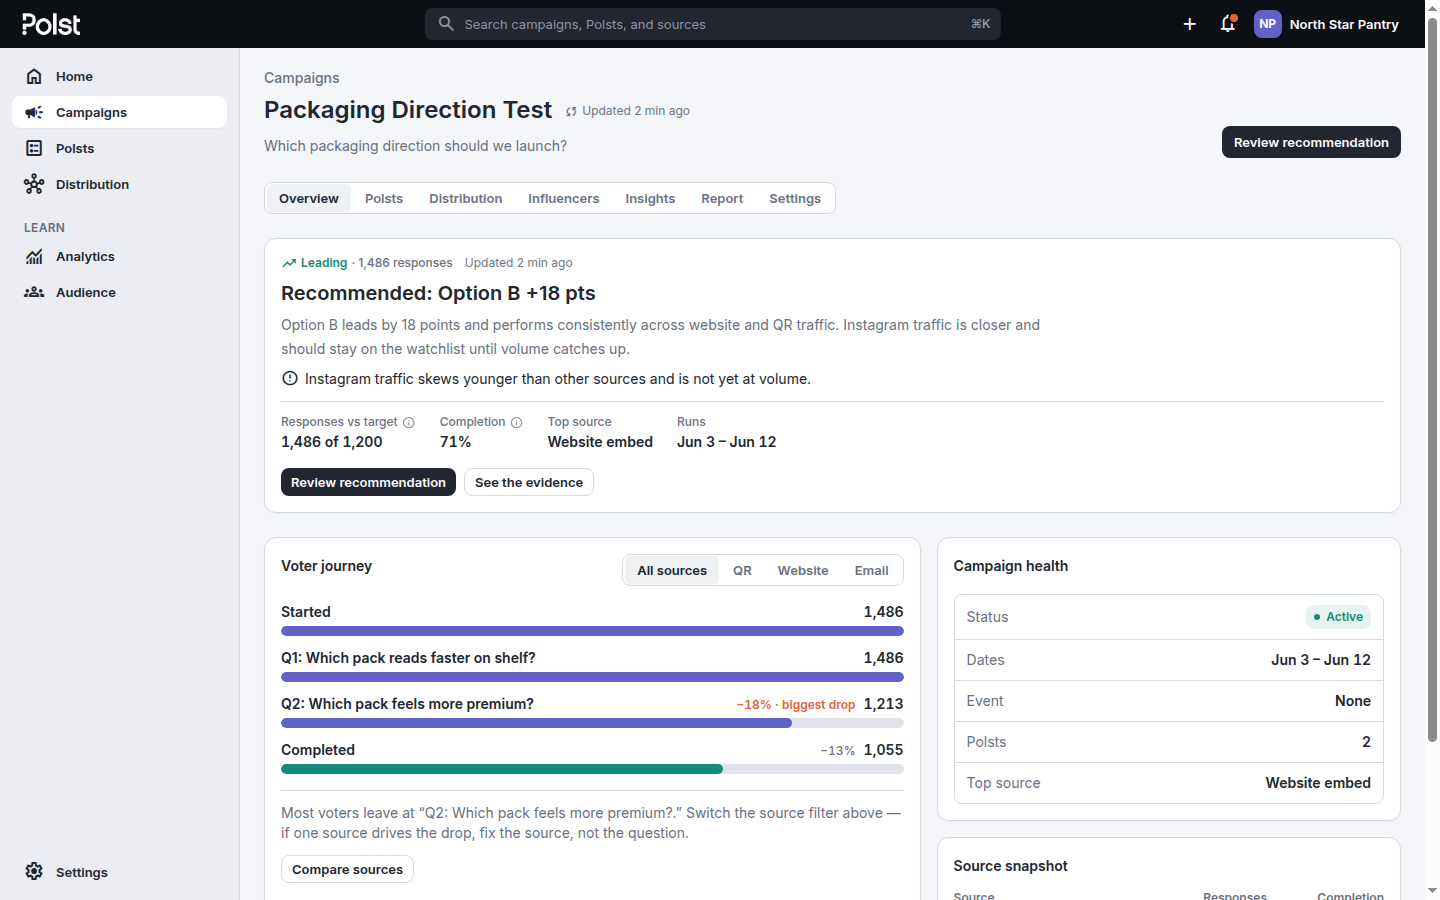
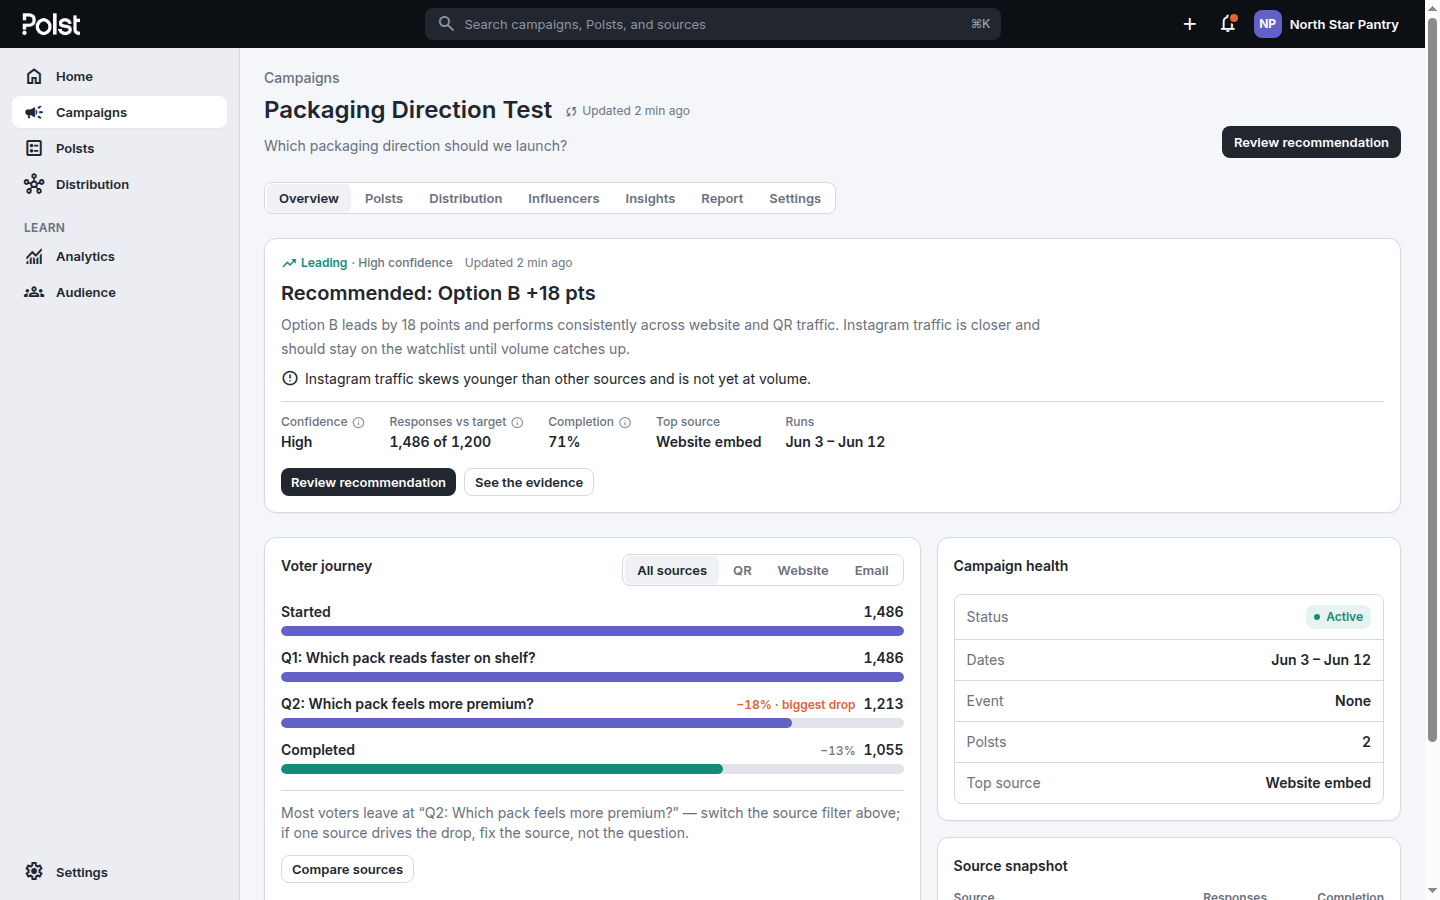
Codex round 2 fixes: real slugs, unattributed assets normalized, dates aligned
- Share link and embed snippets carry the packaging-direction campaign slug —
  no CAMPAIGN_ID placeholder anywhere
- Unassigned QR / link / creator assets all feed '—' and render 'Nothing —
  responses/clicks go unattributed' across every Distribution tab
- Notification copy matches the campaign schedule (Jun 10, not Feb 6)

diff --git a/src/pages/Distribution.tsx b/src/pages/Distribution.tsx
@@ -415,7 +415,13 @@ function QrCard({ qr }: { qr: QrAsset }) {
             <StatusBadge status={qr.status} />
           </div>
           <p className="mt-0.5 text-xs text-text-secondary">{qr.placement}</p>
-          <p className="mt-0.5 truncate text-xs text-text-secondary">{qr.linkedObject}</p>
+          <p className="mt-0.5 truncate text-xs text-text-secondary">
+            {qr.linkedObject === "—" ? (
+              <span className="text-text-tertiary">Feeds nothing — scans go unattributed</span>
+            ) : (
+              `Feeds ${qr.linkedObject}`
+            )}
+          </p>
         </div>
       </div>
       <dl className="mt-4 grid grid-cols-3 gap-2 rounded-md bg-surface-subtle p-3 text-center">
@@ -678,8 +684,13 @@ const creatorLinkColumns: Array<DataColumn<Creator["links"][number]>> = [
     ),
   },
   {
-    header: "Linked object",
-    cell: (row) => <span className="text-text-secondary">{row.linkedObject}</span>,
+    header: "Feeds",
+    cell: (row) =>
+      row.linkedObject === "—" ? (
+        <span className="text-text-tertiary">Nothing — clicks go unattributed</span>
+      ) : (
+        <span className="text-text-secondary">{row.linkedObject}</span>
+      ),
   },
   {
     header: "Clicks",

diff --git a/src/lib/workspace.ts b/src/lib/workspace.ts
@@ -1230,7 +1230,7 @@ export type QrAsset = {
 export const QR_CODES: QrAsset[] = [
   { id: "qr-packaging", name: "QR — Packaging", placement: "On-pack sticker", linkedObject: "Flavor Launch Recap", scans: 421, responses: 312, completion: "74%", status: "Assigned", created: "May 26" },
   { id: "qr-conference", name: "QR — Conference Booth", placement: "Booth banner", linkedObject: "Game Day Creative Test", scans: 293, responses: 120, completion: "41%", status: "Assigned", created: "Jun 2" },
-  { id: "qr-poster", name: "QR — Retail Poster", placement: "End-cap poster", linkedObject: "Unassigned", scans: 0, responses: 0, completion: "—", status: "Unassigned", created: "Jun 9" },
+  { id: "qr-poster", name: "QR — Retail Poster", placement: "End-cap poster", linkedObject: "—", scans: 0, responses: 0, completion: "—", status: "Unassigned", created: "Jun 9" },
 ];
 
 export type LinkAsset = {
@@ -1265,19 +1265,22 @@ export type InfluencerLink = {
 
 export const INFLUENCER_LINKS: InfluencerLink[] = [
   { id: "inf-morningfeed", creator: "The Morning Feed", handle: "@themorningfeed", followers: "48k", linkedObject: "Packaging Direction Test", responses: 134, completion: "61%", split: "60 / 40", status: "Assigned" },
-  { id: "inf-snackreview", creator: "Snack Review Daily", handle: "@snackreviewdaily", followers: "22k", linkedObject: "Unassigned", responses: 0, completion: "—", split: "—", status: "Unassigned" },
+  { id: "inf-snackreview", creator: "Snack Review Daily", handle: "@snackreviewdaily", followers: "22k", linkedObject: "—", responses: 0, completion: "—", split: "—", status: "Unassigned" },
 ];
 
-/** Embed snippets (mock). One source of truth for both code blocks. */
+/** Embed snippets. One source of truth for both code blocks — they carry a
+ *  real campaign slug so no copy path ever shows a placeholder token. */
+export const CAMPAIGN_SHARE_URL = "https://polst.app/c/packaging-direction";
+
 export const EMBED_IFRAME = `<iframe
-  src="https://polst.app/embed/campaign/CAMPAIGN_ID"
+  src="https://polst.app/embed/c/packaging-direction"
   width="100%" height="600" frameborder="0"
   style="border:none;border-radius:12px;min-width:320px"
   title="Polst campaign" loading="lazy"></iframe>`;
 
 export const EMBED_SCRIPT = `<div id="polst-campaign"></div>
 <script async src="https://polst.app/embed.js"
-  data-campaign="CAMPAIGN_ID"></script>`;
+  data-campaign="packaging-direction"></script>`;
 
 /* ── Analytics: audience & platform breakdowns ───────────────────── */
 
@@ -1718,7 +1721,7 @@ export const CREATORS: Creator[] = [
     responses: 0,
     completion: "—",
     split: "—",
-    campaign: "Unassigned",
+    campaign: "—",
     clickTrend: [],
     links: [],
   },

diff --git a/src/pages/Campaigns.tsx b/src/pages/Campaigns.tsx
@@ -34,6 +34,7 @@ import {
 import {
   CAMPAIGNS,
   CAMPAIGN_DETAILS,
+  CAMPAIGN_SHARE_URL,
   CREATORS,
   DISTRIBUTION_SOURCES,
   EMBED_IFRAME,
@@ -867,7 +868,7 @@ function ShareEmbedModal({ open, onClose }: { open: boolean; onClose: () => void
       <div className="space-y-4 p-4">
         <div className="flex items-center gap-2 rounded-md border border-border-default bg-surface-subtle p-2 pl-3">
           <p className="min-w-0 flex-1 truncate font-mono text-xs text-text-secondary">
-            https://polst.app/campaign/CAMPAIGN_ID
+            {CAMPAIGN_SHARE_URL}
           </p>
           <Button variant="secondary" size="sm" onClick={() => toast("Share link copied")}>
             <Icon name="content_copy" size={16} />

diff --git a/src/components/dashboard/Shell.tsx b/src/components/dashboard/Shell.tsx
@@ -517,7 +517,7 @@ const ALERTS: Alert[] = [
     source: "Distribution",
     time: "1h ago",
     title: "Game Day Creative Test has no sources",
-    body: "It's scheduled for Feb 6, but nothing is collecting responses yet.",
+    body: "It launches Jun 10, but nothing is collecting responses yet.",
     unread: true,
   },
   {